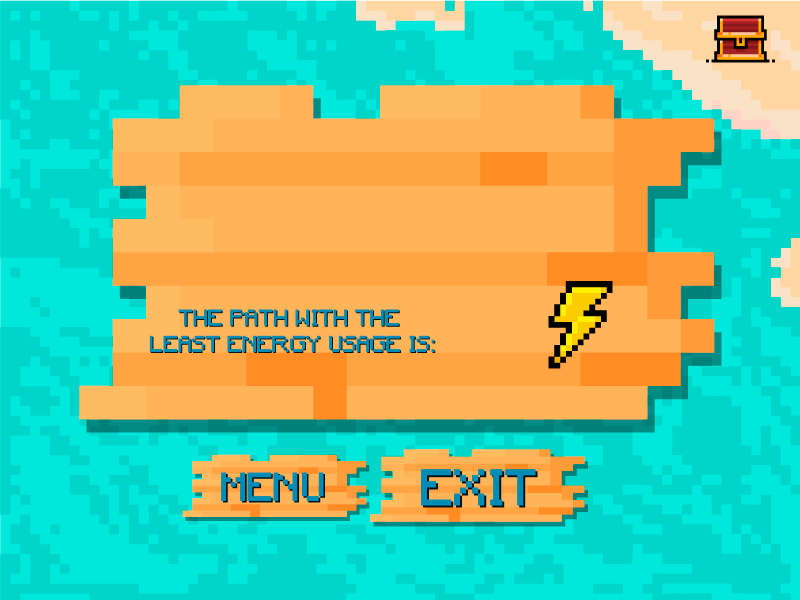
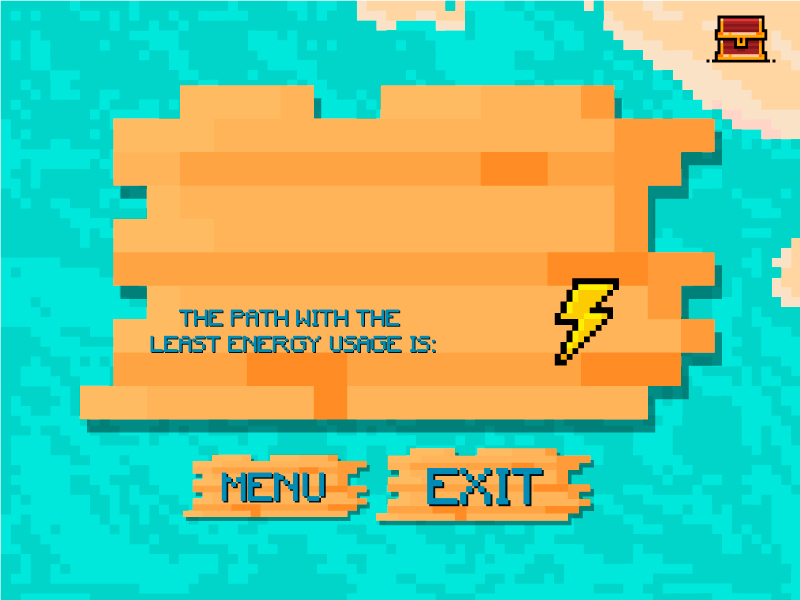
end Images added, exit added

diff --git a/src/view/EndGameView.java b/src/view/EndGameView.java
@@ -46,7 +46,7 @@ public class EndGameView {
 		if(app.mouseX>193 && app.mouseX<348 && app.mouseY>461 && app.mouseY<518) {
 			return 1; 
 		}else if(app.mouseX>395 && app.mouseX<570 && app.mouseY>461 && app.mouseY<518){
-			return 3;
+			return 8;
 		}
 		return 7;
 	}

diff --git a/src/view/Main.java b/src/view/Main.java
@@ -66,8 +66,12 @@ public class Main extends PApplet{
 			case 7:
 				endGameView.drawScreen(message, minEnergy);
 			break;
+			case 8:
+				exit();
+				break;
 		}
 		fill(255);
+		textSize(12);
 		text(mouseX+", "+mouseY,mouseX,mouseY );
 	}
 	
